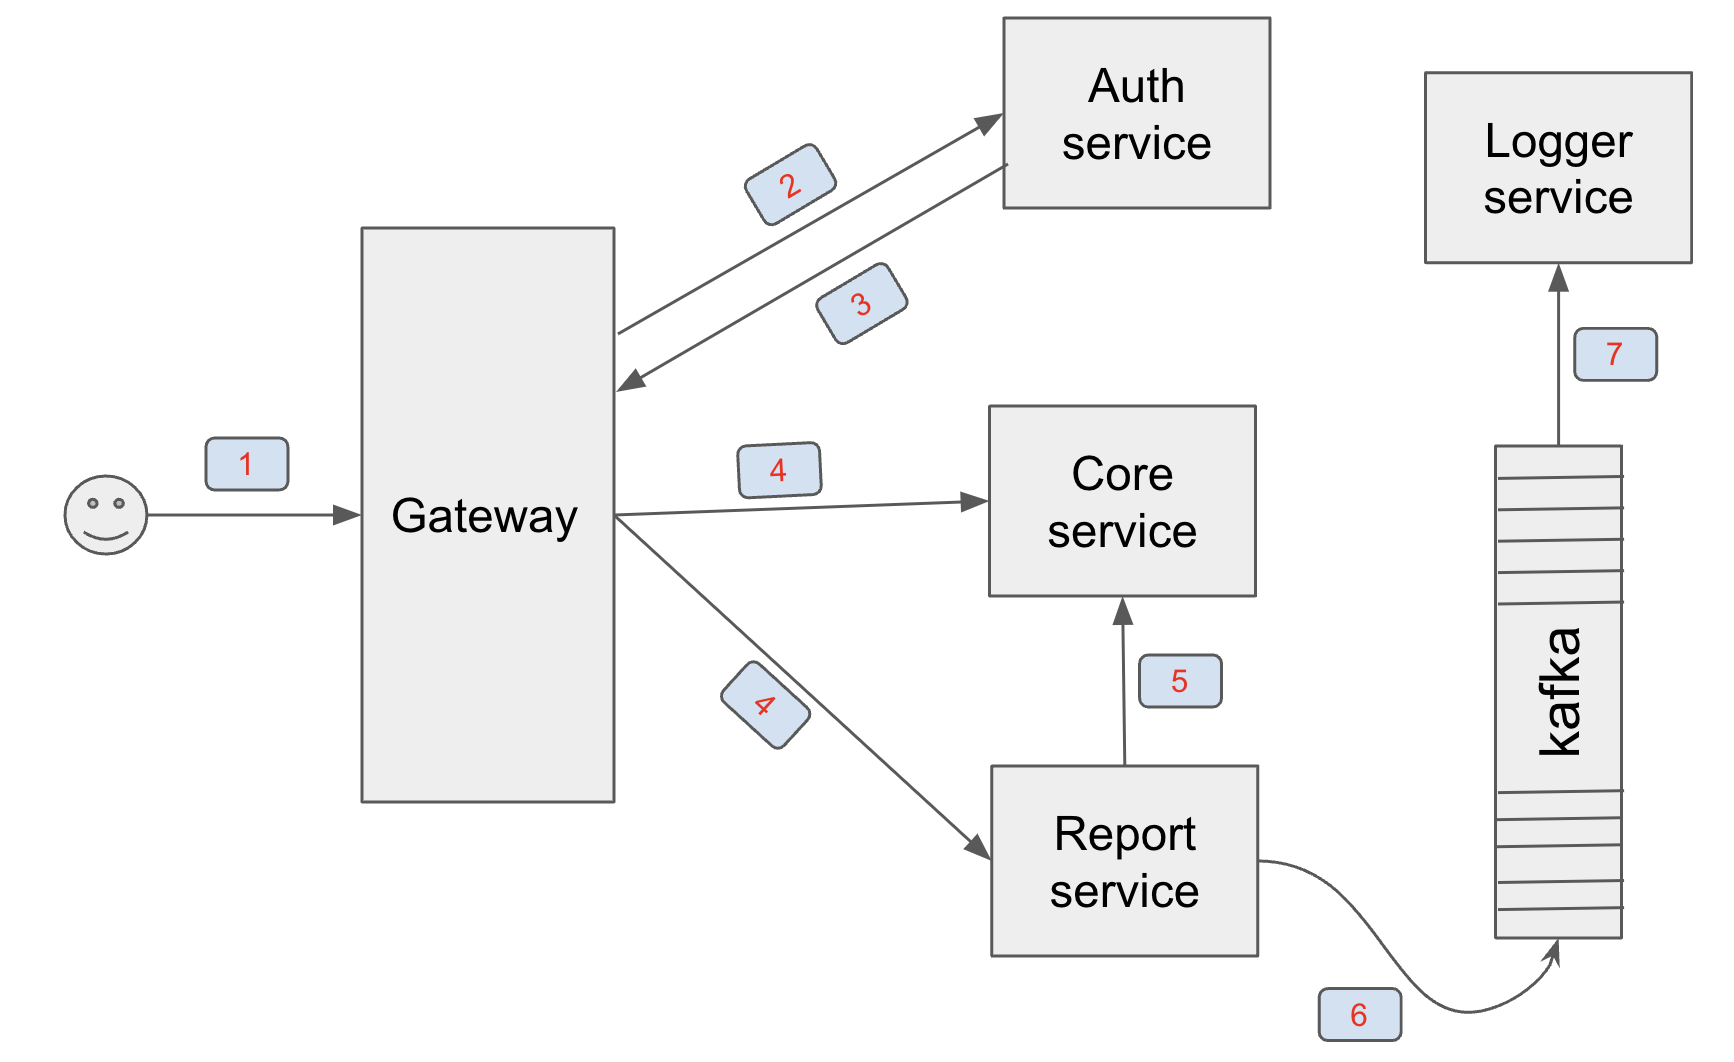
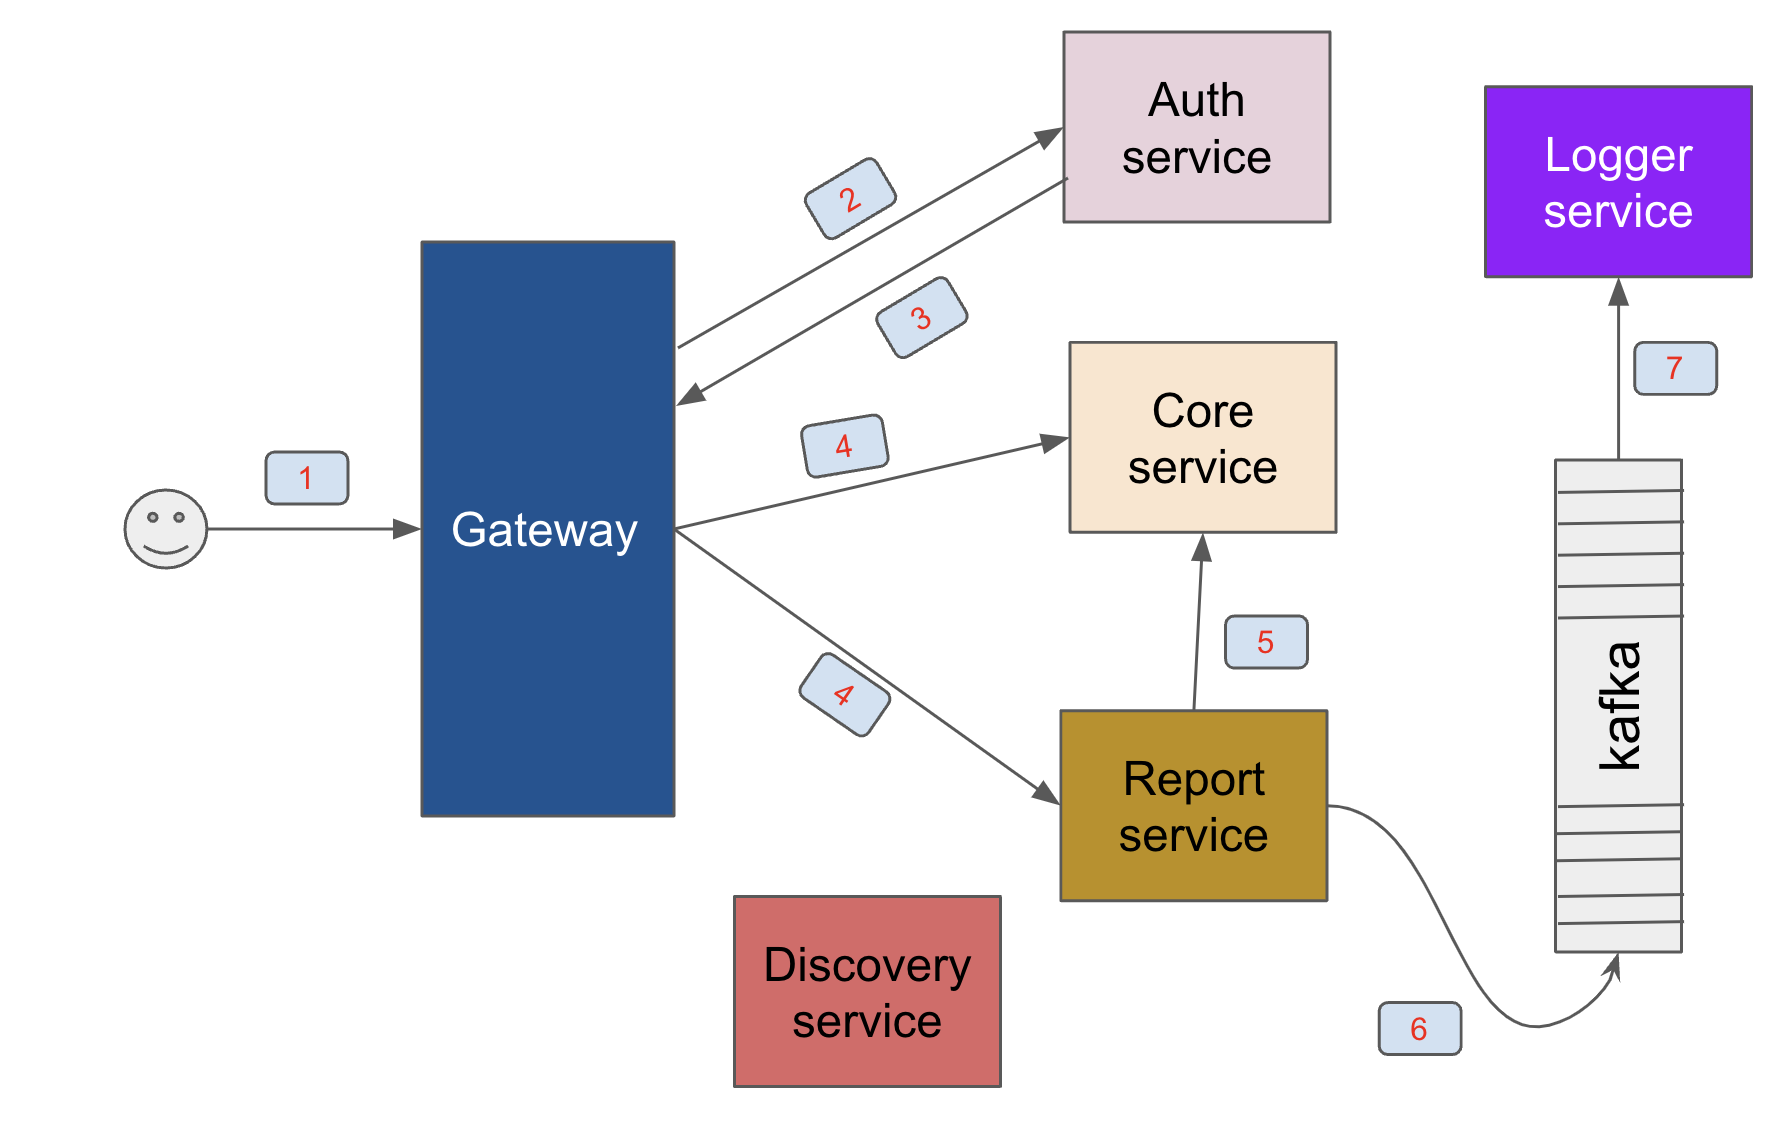
Add system flow description

diff --git a/README.md b/README.md
@@ -17,7 +17,8 @@
 
 ```text
 Explain:
-1. Request to system, it is through gateway-service
+- At start-time, all services will register themself to discovery-service.
+1. Request to system, it goes through gateway-service
 2 & 3. Gateway-service fetches public_key from auth-service via rest api for authenticate & authorize. If success, request goes to destination, else reject with code 401 or 403.
 4. Request goes to service destination for business via Rest API
 5. If request comes report-service, report-service will contact core-service via Rest & gRPC.
